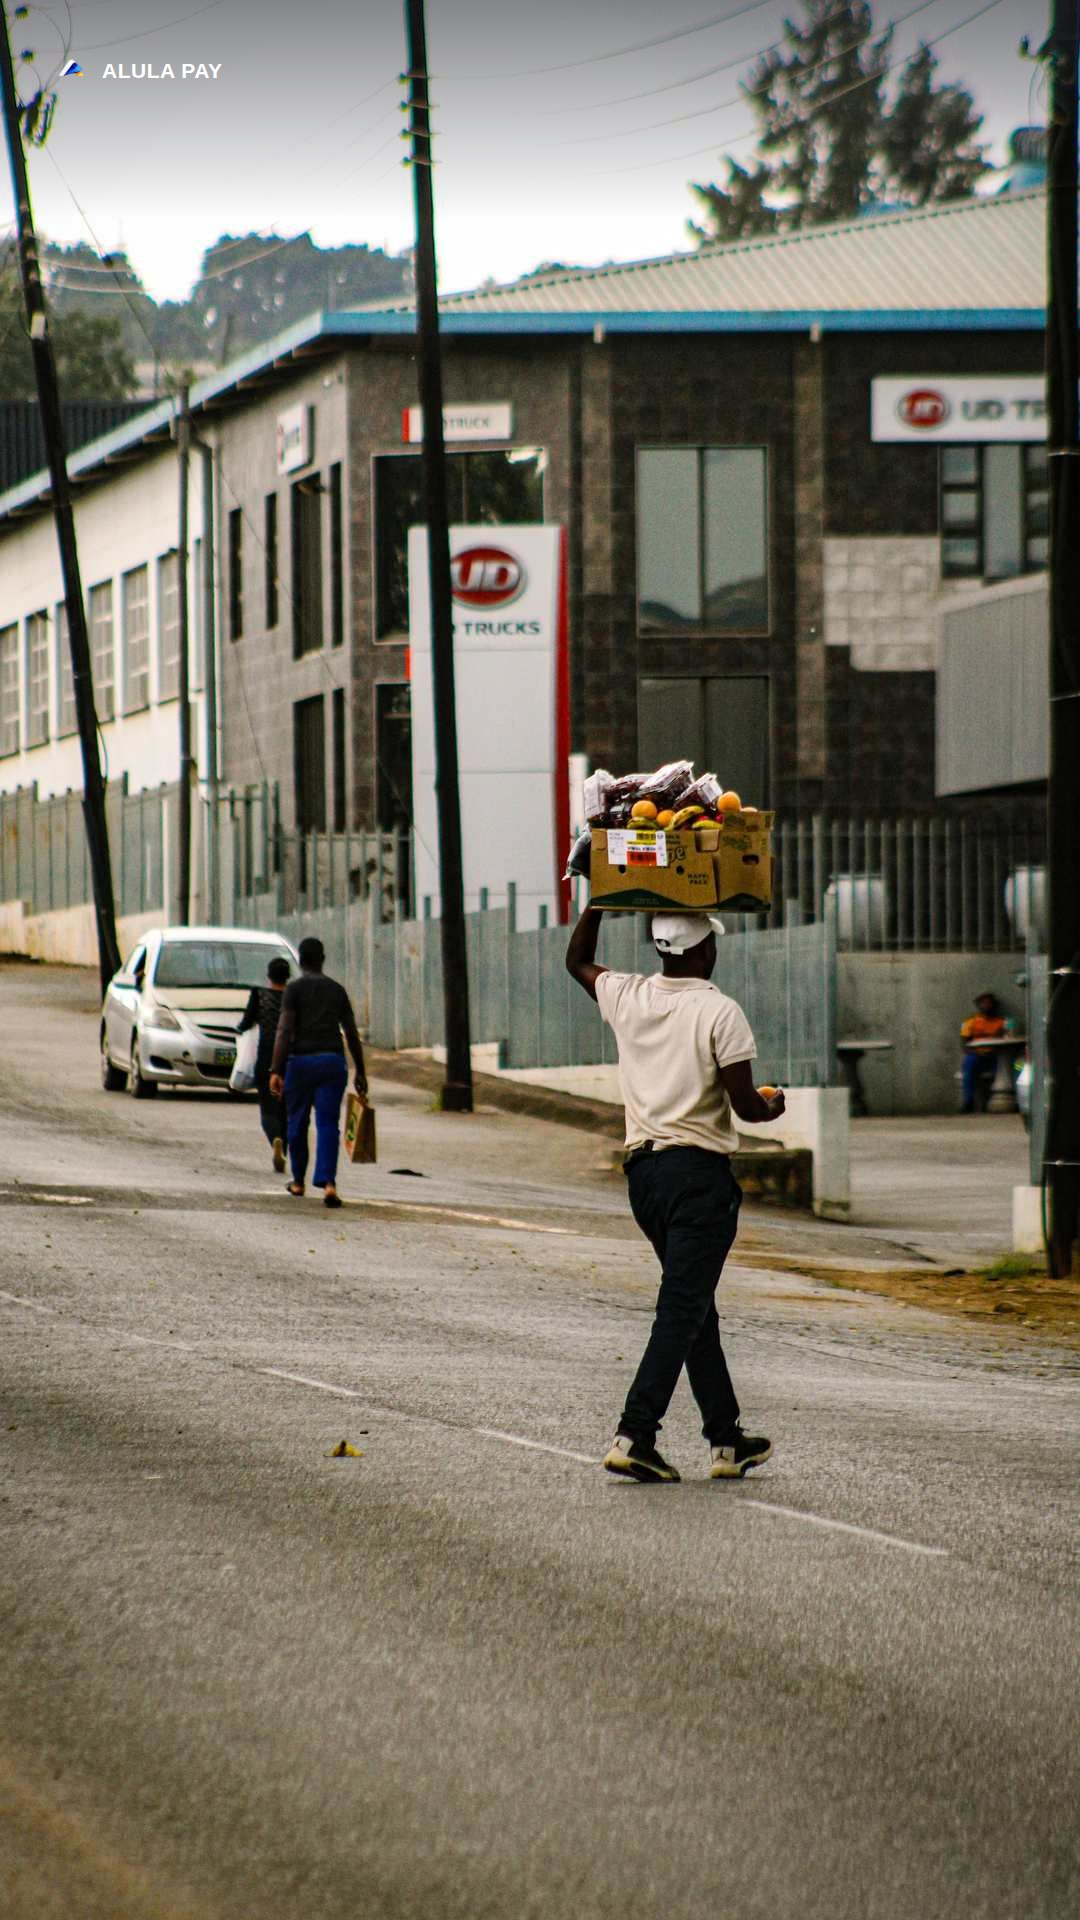
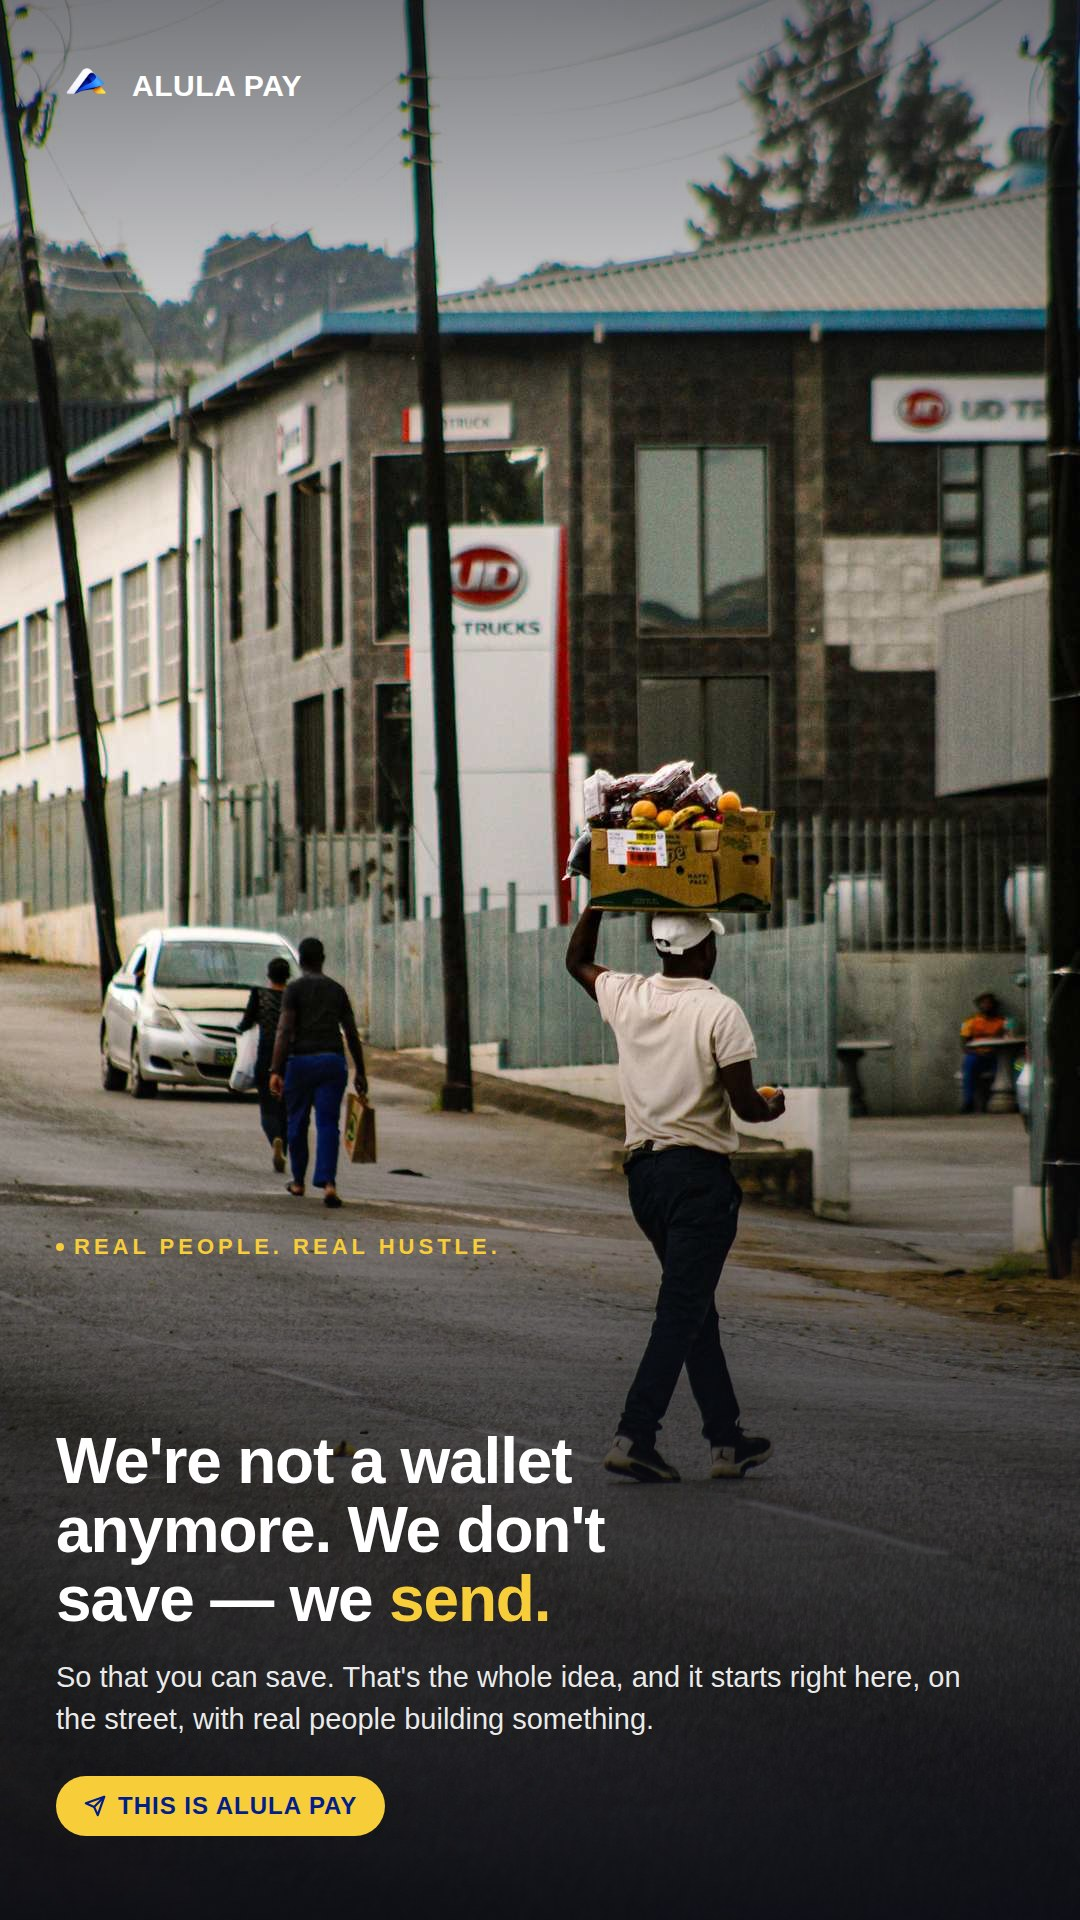
Rework Home stories per feedback: stronger copy, drop a slide, add How It Works
- Slide 1 (street vendor) now carries the core "we don't save, we send"
  tagline instead of running bare — it opens the sequence.
- Slide 2 (mother & daughter) takes over the "We don't save your money.
  We send it." copy; the shop-owner slide is dropped from the sequence.
- Rural homestead slide gets a much stronger scrim and a solid chip
  behind the eyebrow tag so the headline is never swallowed by the
  mud-wall texture.
- New final slide: a "How It Works" 3-step graphic built from icons
  extracted from the brand newsletter (rewording step 2 to avoid the
  word this app never uses).
- Logo lockup enlarged across every slide for visibility.

Claude-Session: https://claude.ai/code/session_01AQZ3nBVdzY9cTDZdMhxvFU

diff --git a/src/routes/home.tsx b/src/routes/home.tsx
@@ -7,19 +7,19 @@ import { StoryViewer, type Story } from "@/components/StoryViewer";
 import { useApp, formatZAR, formatTxDate, TIER_LIMITS } from "@/lib/app-state";
 import promoBanner from "@/assets/home-promo-banner.jpg";
 import storySlide1 from "@/assets/story-1-street-vendor.jpg";
-import storySlide2 from "@/assets/story-2-shop-owner.jpg";
-import storySlide3 from "@/assets/story-3-mother-daughter.jpg";
-import storySlide4 from "@/assets/story-4-rural-homestead.jpg";
-import storySlide5 from "@/assets/story-5-elderly-woman.jpg";
-import storySlide6 from "@/assets/story-6-kasi-to-rural.jpg";
+import storySlide2 from "@/assets/story-2-mother-daughter.jpg";
+import storySlide3 from "@/assets/story-3-rural-homestead.jpg";
+import storySlide4 from "@/assets/story-4-elderly-woman.jpg";
+import storySlide5 from "@/assets/story-5-kasi-to-rural.jpg";
+import storySlide6 from "@/assets/story-6-how-it-works.jpg";
 
 const PROMO_STORIES: Story[] = [
-  { image: storySlide1, alt: "Real people, real hustle." },
+  { image: storySlide1, alt: "We're not a wallet anymore. We don't save — we send." },
   { image: storySlide2, alt: "We don't save your money. We send it." },
-  { image: storySlide3, alt: "We don't save. We send — so you can." },
-  { image: storySlide4, alt: "Send to Gogo. Never set foot in a bank." },
-  { image: storySlide5, alt: "You don't need a bank account to belong." },
-  { image: storySlide6, alt: "From the Kasi to the Rurals — in minutes." },
+  { image: storySlide3, alt: "Send to Gogo. Never set foot in a bank." },
+  { image: storySlide4, alt: "You don't need a bank account to belong." },
+  { image: storySlide5, alt: "From the Kasi to the Rurals — in minutes." },
+  { image: storySlide6, alt: "How Alula Pay works, in three steps." },
 ];
 
 export const Route = createFileRoute("/home")({ component: Home });
